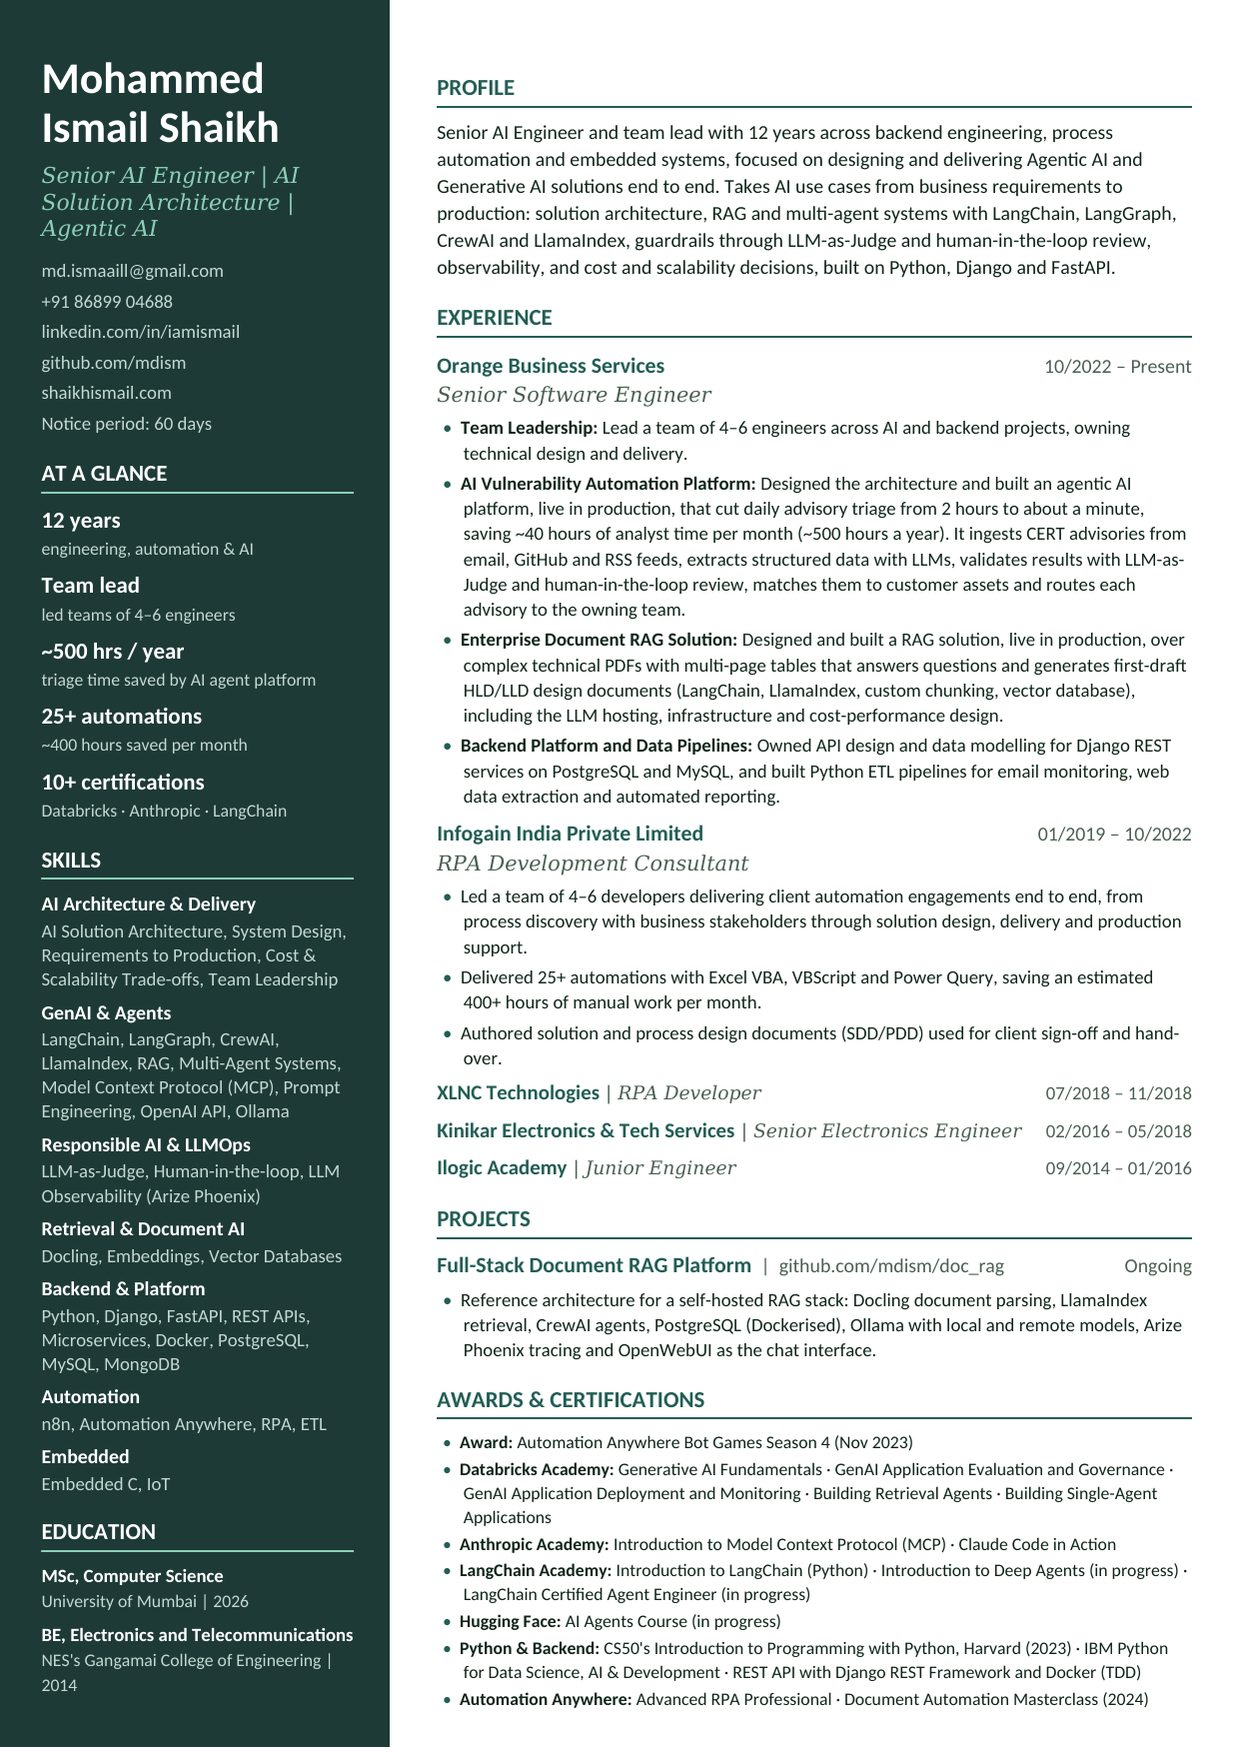
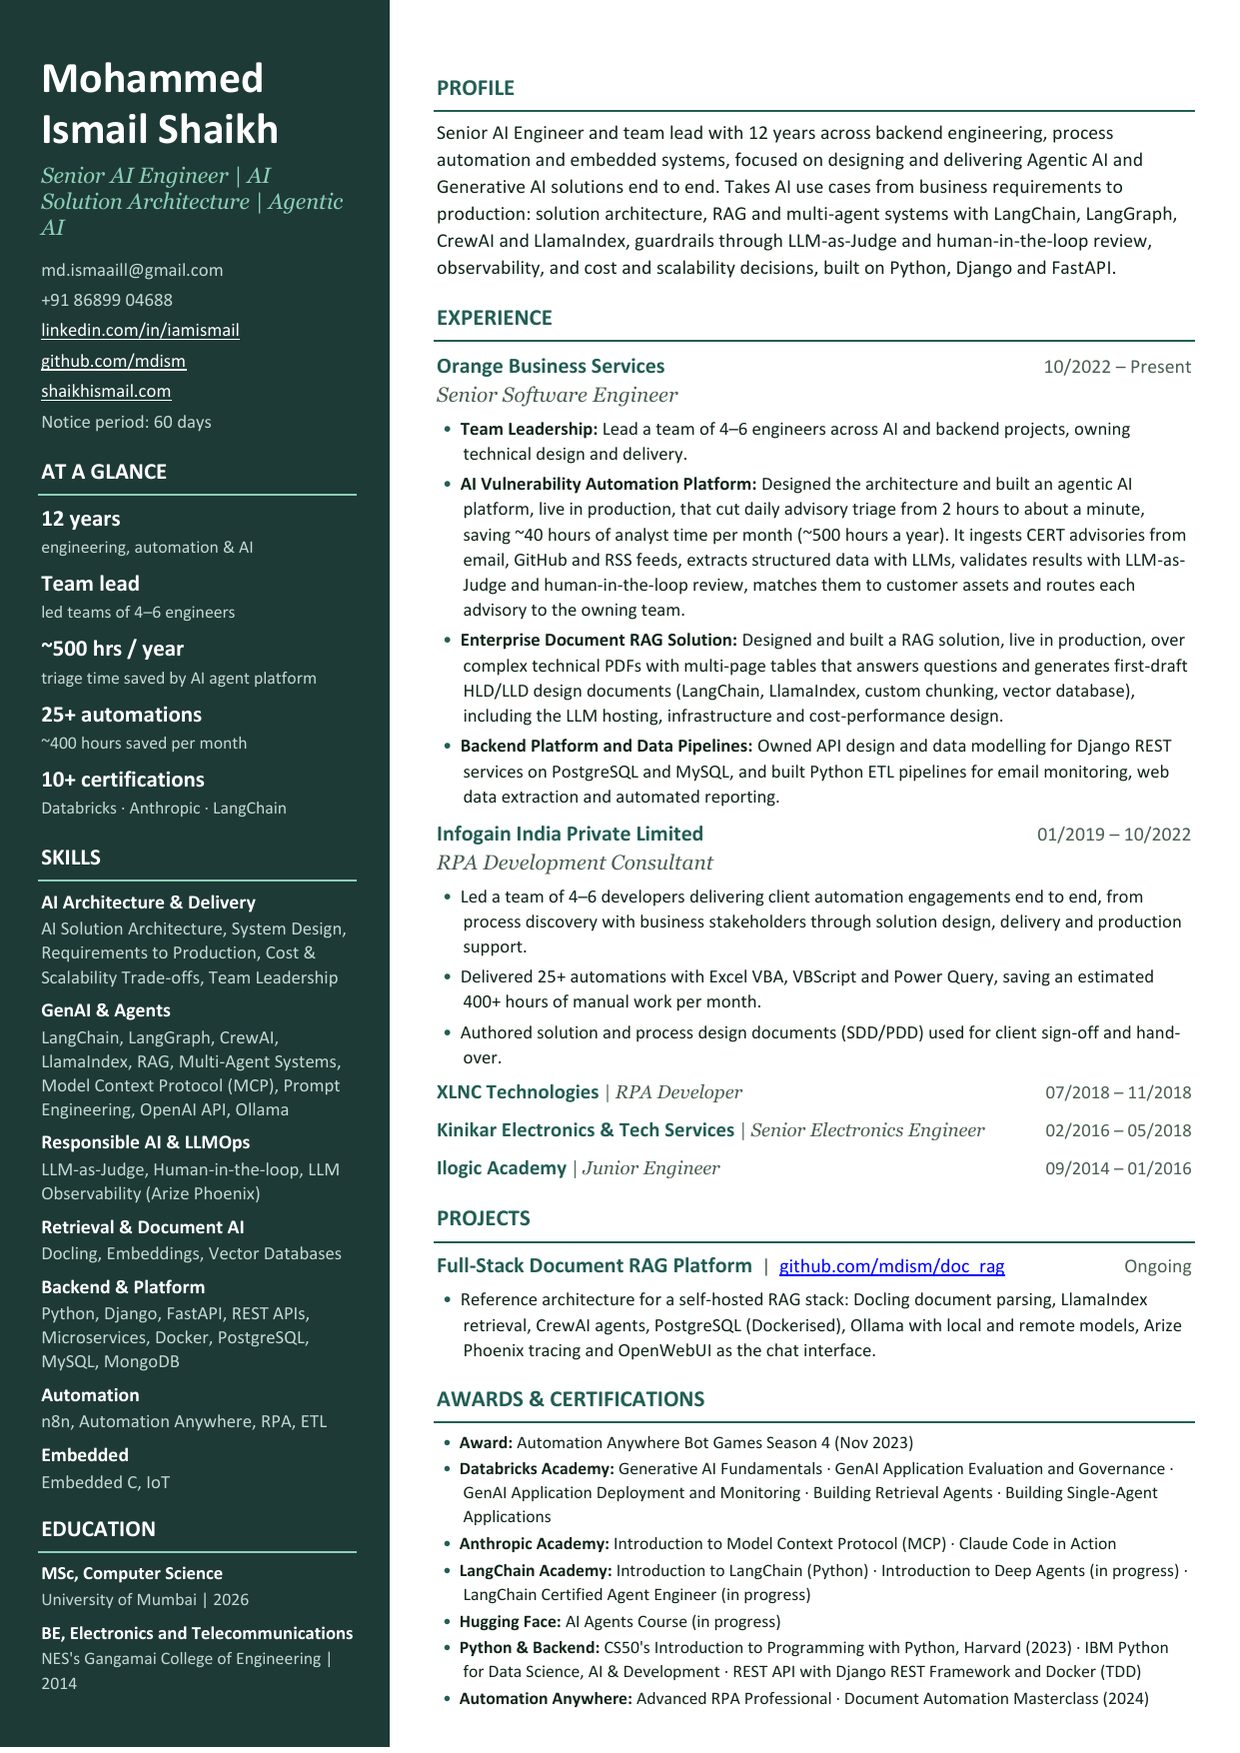
Site v2.1.0: version in footer, changelog, bump script
- site/version.json read by the footer (links to CHANGELOG.md)
- scripts/bump_version.py updates version.json, CHANGELOG and ?v= cache-busting on CSS/JS
- Resume preview image refreshed from the latest PDF

Claude-Session: https://claude.ai/code/session_0141FXvmwk2SXiHGjvoFxyuJ

diff --git a/site/index.html b/site/index.html
@@ -28,7 +28,7 @@
     } catch (e) {}
   })();
 </script>
-<link rel="stylesheet" href="assets/css/site.css">
+<link rel="stylesheet" href="assets/css/site.css?v=2.1.0">
 <script type="application/ld+json">
 {
   "@context": "https://schema.org",
@@ -412,7 +412,7 @@
         </a>
         <div class="resume-side">
           <h3>Mohammed Ismail Shaikh</h3>
-          <p>Senior AI Engineer · AI Solution Architecture · Agentic AI. One page, PDF.</p>
+          <p>Senior AI Engineer · AI Solution Architecture · Agentic AI. PDF.</p>
           <div class="cta-row">
             <a class="btn btn-primary" href="resume/Mohammed-Ismail-Shaikh_Senior-AI-Engineer.pdf" download>
               <svg viewBox="0 0 24 24" fill="none" stroke="currentColor" stroke-width="2" stroke-linecap="round" stroke-linejoin="round"><path d="M12 3v12M7 10l5 5 5-5M5 21h14"/></svg>Download resume (PDF)
@@ -450,11 +450,11 @@
 
 <footer class="site">
   <div class="wrap">
-    <span>&copy; <span id="yr">2026</span> Mohammed Ismail Shaikh</span>
+    <span>&copy; <span id="yr">2026</span> Mohammed Ismail Shaikh · <a id="ver" class="ver" href="https://github.com/mdism/mdism/blob/main/CHANGELOG.md" target="_blank" rel="noopener" title="What changed in this version">v2.1.0</a></span>
     <span>Built by hand. Hosted in India. Press <span class="kbd">Ctrl K</span> to jump anywhere.</span>
   </div>
 </footer>
 
-<script src="assets/js/site.js"></script>
+<script src="assets/js/site.js?v=2.1.0"></script>
 </body>
 </html>

diff --git a/site/tools/index.html b/site/tools/index.html
@@ -20,7 +20,7 @@
     } catch (e) {}
   })();
 </script>
-<link rel="stylesheet" href="../assets/css/site.css">
+<link rel="stylesheet" href="../assets/css/site.css?v=2.1.0">
 </head>
 <body data-base="../">
 
@@ -68,7 +68,7 @@
 
 <footer class="site">
   <div class="wrap">
-    <span>&copy; <span id="yr">2026</span> Mohammed Ismail Shaikh</span>
+    <span>&copy; <span id="yr">2026</span> Mohammed Ismail Shaikh · <a id="ver" class="ver" href="https://github.com/mdism/mdism/blob/main/CHANGELOG.md" target="_blank" rel="noopener" title="What changed in this version">v2.1.0</a></span>
     <span><a href="../">Back to shaikhismail.com</a></span>
   </div>
 </footer>
@@ -85,6 +85,6 @@ window.TOOLS = [
   { name: "GST & EMI Calculator", icon: "₹", desc: "Quick GST, EMI and SIP calculations with clear breakdowns.", url: "https://calc.shaikhismail.com", status: "soon" },
 ];
 </script>
-<script src="../assets/js/site.js"></script>
+<script src="../assets/js/site.js?v=2.1.0"></script>
 </body>
 </html>

diff --git a/site/assets/js/site.js b/site/assets/js/site.js
@@ -34,6 +34,21 @@
   const yr = $('#yr');
   if (yr) yr.textContent = new Date().getFullYear();
 
+  /* ============ VERSION (footer, from version.json) ============ */
+  const ver = $('#ver');
+  if (ver) {
+    fetch((document.body.dataset.base || '') + 'version.json', { cache: 'no-store' })
+      .then(r => r.ok ? r.json() : null)
+      .then(v => {
+        if (!v || !v.version) return;
+        const d = new Date(v.date + 'T00:00:00');
+        const when = isNaN(d) ? v.date : d.toLocaleDateString('en-GB', { day: 'numeric', month: 'short', year: 'numeric' });
+        ver.textContent = 'v' + v.version + ' · ' + when;
+        if (v.notes) ver.title = v.notes;
+      })
+      .catch(() => {});
+  }
+
   /* ============ HERO PROMPT TYPING ============ */
   const typed = $('#typed');
   if (typed) {

diff --git a/site/assets/css/site.css b/site/assets/css/site.css
@@ -444,3 +444,7 @@ footer.site a { color: var(--ink-soft); }
   html { scroll-behavior: auto; }
   *, *::before, *::after { animation: none !important; transition: none !important; }
 }
+
+/* ============ VERSION (footer) ============ */
+footer.site .ver { text-decoration: none; font-variant-numeric: tabular-nums; border-bottom: 1px dotted var(--line); }
+footer.site .ver:hover { color: var(--green); border-bottom-color: var(--green); }

diff --git a/scripts/bump_version.py b/scripts/bump_version.py
@@ -1,0 +1,51 @@
+#!/usr/bin/env python3
+"""Bump the website version in one go.
+
+Usage (from the repo root):
+    python scripts/bump_version.py 2.2.0 "Added case-study pages"
+
+Updates:
+  - site/version.json        (read by the footer)
+  - CHANGELOG.md             (new entry at the top)
+  - ?v=<version> on the CSS/JS links in every site/**/*.html
+    so browsers fetch the new files instead of a cached copy
+"""
+import datetime
+import json
+import pathlib
+import re
+import sys
+
+ROOT = pathlib.Path(__file__).resolve().parent.parent
+SITE = ROOT / "site"
+
+
+def main():
+    if len(sys.argv) < 3 or not re.fullmatch(r"\d+\.\d+\.\d+", sys.argv[1]):
+        sys.exit('Usage: python scripts/bump_version.py <MAJOR.MINOR.PATCH> "<what changed>"')
+    version, notes = sys.argv[1], sys.argv[2]
+    today = datetime.date.today().isoformat()
+
+    vfile = SITE / "version.json"
+    old = json.loads(vfile.read_text(encoding="utf-8"))["version"]
+    vfile.write_text(json.dumps({"version": version, "date": today, "notes": notes}, indent=2) + "\n", encoding="utf-8")
+
+    cl = ROOT / "CHANGELOG.md"
+    text = cl.read_text(encoding="utf-8")
+    entry = f"## [{version}] - {today}\n- {notes}\n\n"
+    text = text.replace("## [", entry + "## [", 1)
+    cl.write_text(text, encoding="utf-8")
+
+    pattern = re.compile(r'(assets/(?:css/site\.css|js/site\.js))(\?v=[\w.]+)?"')
+    for html in SITE.rglob("*.html"):
+        src = html.read_text(encoding="utf-8")
+        new = pattern.sub(lambda m: f'{m.group(1)}?v={version}"', src)
+        new = re.sub(r'(id="ver"[^>]*>)v[\w.]+', rf'\g<1>v{version}', new)
+        if new != src:
+            html.write_text(new, encoding="utf-8")
+
+    print(f"Version {old} -> {version} ({today}). Commit, push, then deploy in cPanel.")
+
+
+if __name__ == "__main__":
+    main()

diff --git a/CHANGELOG.md b/CHANGELOG.md
@@ -1,0 +1,23 @@
+# Changelog
+
+All notable changes to shaikhismail.com. Versions follow MAJOR.MINOR.PATCH:
+MAJOR for a redesign, MINOR for new sections or features, PATCH for fixes and content updates.
+Update with `python scripts/bump_version.py <version> "<notes>"`.
+
+## [2.1.0] - 2026-10-27
+- Version shown in the footer; resume preview refreshed
+
+## [2.0.1] - 2026-10-27
+- Resumes switched to Pine green to match the website
+- Deploy copies site/ to public_html automatically
+
+## [2.0.0] - 2026-10-27
+- Redesign for Senior AI Engineer / AI Solution Architecture positioning
+- Simulated agent terminal, stats strip, work section with how-it-works flows
+- Career timeline, grouped certifications, Bot Games award
+- Resume section with preview, download and ATS version
+- Ctrl+K command menu; free tools moved to /tools
+- Link-preview image and structured data for search engines
+
+## [1.0.0] - 2026-09-30
+- First version of shaikhismail.com: about, RPA approach, projects, tools hub

diff --git a/DEPLOY.md b/DEPLOY.md
@@ -35,3 +35,16 @@ resume/                        Editable Word versions (not published)
 ## Publishing an update
 
 cPanel → Git Version Control → Manage → **Pull or Deploy** → *Update from Remote*, then *Deploy HEAD Commit*.
+
+## Versioning
+
+The footer shows the site version from `site/version.json` and links to `CHANGELOG.md`.
+Before each release, run from the repo root:
+
+```
+python scripts/bump_version.py 2.2.0 "What changed"
+```
+
+It updates `site/version.json`, adds a `CHANGELOG.md` entry, and sets `?v=2.2.0` on the CSS/JS links
+so visitors' browsers load the new files. Then commit, push, and deploy.
+Use MAJOR for a redesign, MINOR for new sections or features, PATCH for fixes and content updates.
